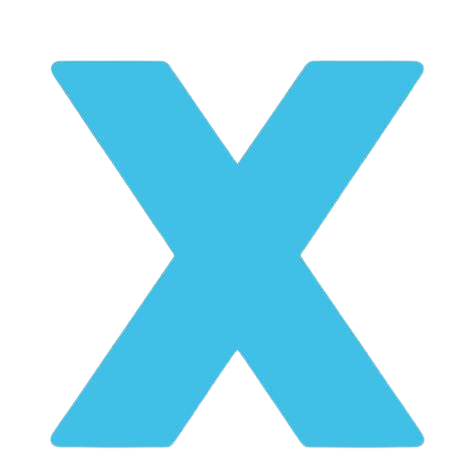
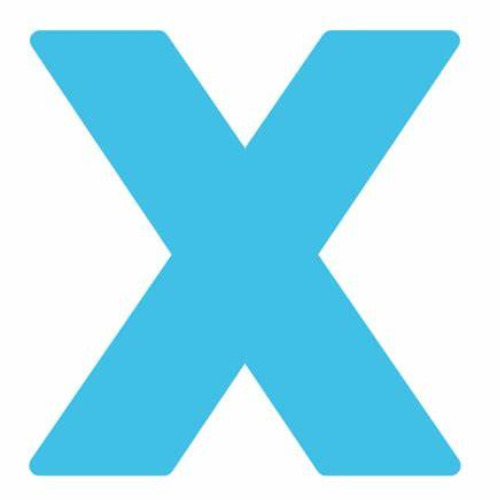
frontend:adding the same style for the user navbar

diff --git a/frontend/src/components/navbar/stylesNavbar.css b/frontend/src/components/navbar/stylesNavbar.css
@@ -130,10 +130,10 @@ button {
 }
 .nav__x {
   position: fixed;
-  transition: 0.7s ease-in;
+  transition: 0.5s ease-in-out;
   right: 45.5%;
   background: url("../../common/images/x.png");
-  background-size: cover;
+  background-size: contain;
   background-repeat: no-repeat;
   z-index: 2013;
   width: 2rem;
